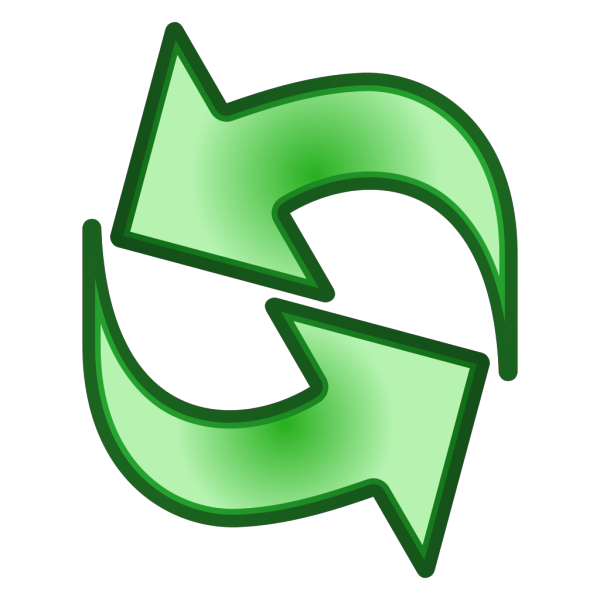
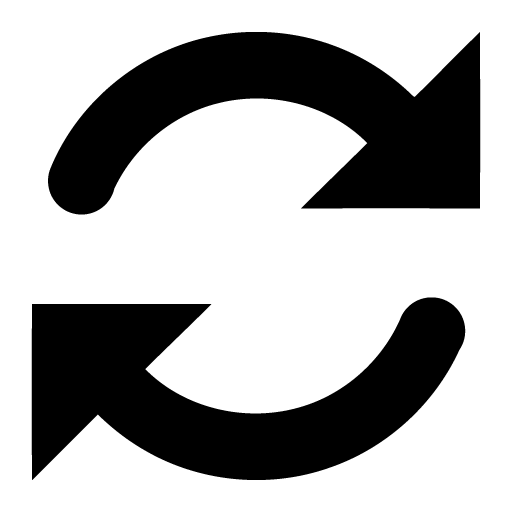
png refresh button added

diff --git a/client/src/components/WeatherTable.js b/client/src/components/WeatherTable.js
@@ -3,6 +3,8 @@ import "./WeatherTable.css";
 import $ from "jquery";
 import { Loader } from './Loader';
 
+import refreshPNG from '../assets/buttons/refresh.png';
+
 class HourlyWeather {
   constructor(hourlyObj) {
     this.date = getDateFromUTC(hourlyObj.dt);
@@ -218,14 +220,14 @@ export default class WeatherTable extends Component {
 
   updateTable = async () => {
     this.setState({
-      updating:true
+      updating: true
     });
     const weatherObj = await this.getWeatherData(this.state.city);
-    if (!weatherObj||weatherObj.message) {
+    if (!weatherObj || weatherObj.message) {
       this.setState({
-        message:'Error occured, try again later.',
+        message: 'Error occured, try again later.',
         loading: false,
-        updating:false
+        updating: false
       })
     } else {
       const { current, hourlyObj, daily, mini } = prepareWeatherData(weatherObj);
@@ -235,8 +237,8 @@ export default class WeatherTable extends Component {
         dailyTableData: daily,
         miniTableData: mini,
         timeUpdated: getDateToString(new Date(Date.now())).split(" ")[0],
-        message:null,
-        updating:false
+        message: null,
+        updating: false
       });
     }
   };
@@ -415,7 +417,7 @@ export default class WeatherTable extends Component {
 
       const weatherObj = await fetch('/api/weather', { method, body, headers })
         .then(data => data.json());
-        return weatherObj;
+      return weatherObj;
     } catch (e) {
     }
   };
@@ -423,24 +425,24 @@ export default class WeatherTable extends Component {
   componentDidMount = async () => {
     const cities = await this.getCities();
     const weatherObj = await this.getWeatherData(this.state.city);
-    if (!weatherObj||weatherObj.message) {
+    if (!weatherObj || weatherObj.message) {
       this.setState({
-        message:'Error occured, try again later.',
+        message: 'Error occured, try again later.',
         loading: false
       })
     } else {
       const { current, hourlyObj, daily, mini } = prepareWeatherData(weatherObj);
-        this.setState({
-          cities: cities,
-          city: cities[0],
-          currentTableData: current,
-          hourlyTableData: hourlyObj,
-          dailyTableData: daily,
-          miniTableData: mini,
-          timeUpdated: getDateToString(new Date(Date.now())).split(" ")[0],
-          loading: false,
-          message:null
-        });
+      this.setState({
+        cities: cities,
+        city: cities[0],
+        currentTableData: current,
+        hourlyTableData: hourlyObj,
+        dailyTableData: daily,
+        miniTableData: mini,
+        timeUpdated: getDateToString(new Date(Date.now())).split(" ")[0],
+        loading: false,
+        message: null
+      });
     }
   }
 
@@ -463,9 +465,11 @@ export default class WeatherTable extends Component {
     if (this.state.message) {
       return (
         <div className='pwnz-weatherTable-micro pwnz-f-c pwnz-p5'>
-          <span>{this.state.message}</span> 
+          <span>{this.state.message}</span>
           <div className='pwnz-button pwnz-f-c pwnz-ml5' >
-            <div onClick={this.updateTable} className={'pwnz-fs23'+(this.state.updating?' pwnz-infinitySpin360':'')}>🗘</div>
+            <div onClick={this.updateTable} className={'pwnz-fs23' + (this.state.updating ? ' pwnz-infinitySpin360' : '')}>
+              <img className='pwnz-20x20' src={refreshPNG} />
+            </div>
           </div>
         </div>
       )
@@ -502,8 +506,8 @@ export default class WeatherTable extends Component {
                 })}
               </select>
             </div>
-            <div className='pwnz-button pwnz-f-c' >
-              <div onClick={this.updateTable} className='pwnz-fs23'>🗘</div>
+            <div className='pwnz-button pwnz-f-c pwnz-ml5' >
+                <img onClick={this.updateTable} className={'pwnz-20x20' + (this.state.updating ? ' pwnz-infinitySpin360' : '')} src={refreshPNG} />
             </div>
           </div>
           <div className='pwnz-p5'>

diff --git a/routes/weather.routes.js b/routes/weather.routes.js
@@ -42,8 +42,6 @@ router.post('/', auth,async (request, response)=> {
         const futureWeather = await axios.get(cityObj.future);
         const pastTodayWeather = await axios.get(cityObj.pastToday);
         const pastYesterdayWeather = await axios.get(cityObj.pastYesterday);
-        response.status(500).json({message:'Service is currently unavailable'});
-        return;
         response.status(200).json({
             futureWeather:futureWeather.data,
             pastTodayWeather:pastTodayWeather.data,

diff --git a/client/src/components/pwnz.css b/client/src/components/pwnz.css
@@ -150,8 +150,6 @@
     display:block !important;
 }
 
-
-
 .pwnz-button {
     display: table;
     vertical-align: middle;
@@ -383,4 +381,14 @@
 .pwnz-40x40 {
     width:40px;
     height:40px;
+}
+
+.pwnz-30x30 {
+    width:30px;
+    height:30px;
+}
+
+.pwnz-20x20 {
+    width:20px;
+    height:20px;
 }
